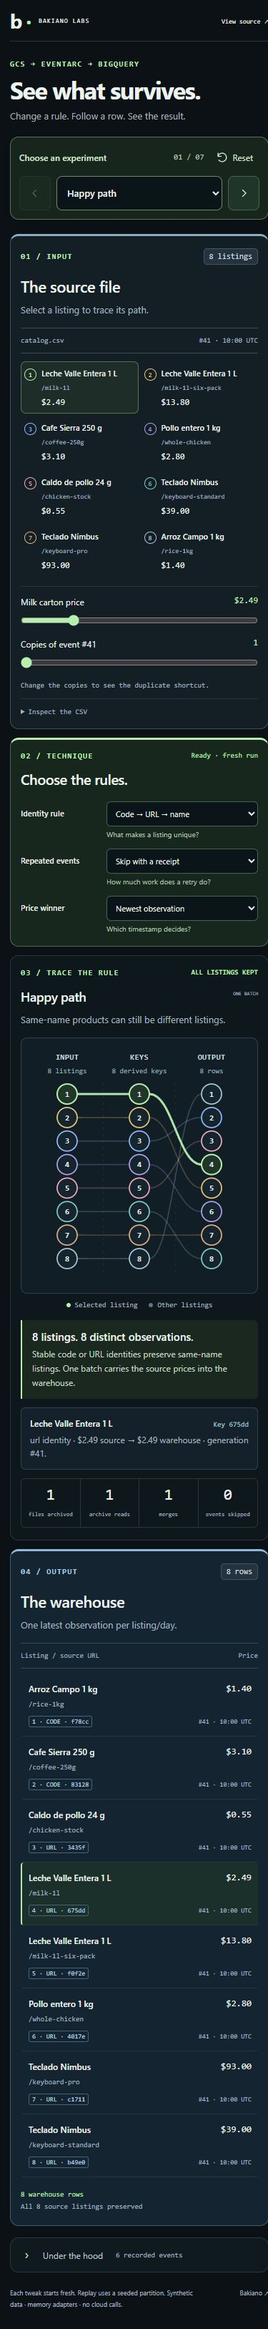
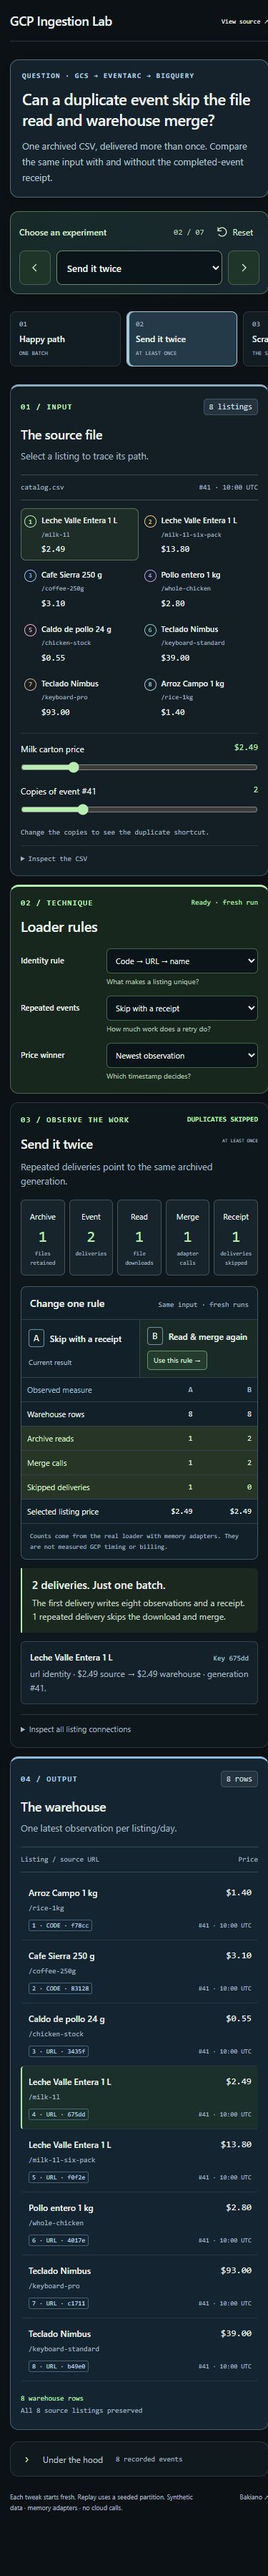
feat(lab): make ingestion failures and rule changes observable (#4)
* feat(lab): compare ingestion rules through observed work

* docs: explain ingestion comparisons and refresh previews

Changed region(s): [[0.0293, 0.0, 1.0, 0.9929], [0.9973, 0.3103, 1.0, 0.3413]]

diff --git a/demo/app.js b/demo/app.js
@@ -1,7 +1,7 @@
 const $ = selector => document.querySelector(selector);
 const escape = text => String(text ?? '').replace(/[&<>"']/g, c => ({ '&': '&amp;', '<': '&lt;', '>': '&gt;', '"': '&quot;', "'": '&#39;' }[c]));
 const palette = ['#b8efb0', '#e8c87c', '#94b8ff', '#b3a0ef', '#efabbf', '#80ccc7', '#deb188', '#a6c9db'];
-let scenarios = [], current = 'healthy', step = 'start', selected = 0, value, sequence = 0, controller, timer;
+let scenarios = [], current = 'duplicate', step = 'start', selected = 0, value, comparisonValue, sequence = 0, controller, timer;
 const money = amount => '$' + Number(amount).toFixed(2);
 const path = url => url?.replace('https://shop.example.test/', '/') ?? 'No URL';
 const basis = row => row.product_code ? 'CODE' : row.url ? 'URL' : 'NAME';
@@ -9,6 +9,43 @@ const blocked = data => ['invalid', 'missing_publication', 'rejected_event'].inc
 const nodeY = (index, count) => count === 1 ? 185 : 72 + index * 230 / (count - 1);
 const curve = (x1, y1, x2, y2) => 'M' + x1 + ' ' + y1 + ' C' + (x1 + (x2 - x1) * .45) + ' ' + y1 + ',' + (x2 - (x2 - x1) * .45) + ' ' + y2 + ',' + x2 + ' ' + y2;
 const safeId = id => id.slice(0, 5);
+const questions = {
+  healthy: ['What makes two same-name listings distinct?', 'Eight listings include two milk URLs and two keyboard URLs with identical titles. Change only the identity rule to see which survive.'],
+  duplicate: ['Can a duplicate event skip the file read and warehouse merge?', 'One archived CSV, delivered more than once. Compare the same input with and without the completed-event receipt.'],
+  denied: ['What happens when scraping succeeds but the upload fails?', 'Eight collected listings never become a published object. Loader settings cannot create the missing event.'],
+  schema: ['Can a CSV redefine the warehouse identity?', 'The source replaces its name column with product_id. The fixed schema rejects the file before the warehouse merge.'],
+  late: ['Which price wins when an older event arrives last?', 'Generation #42 contains the newer observation. Generation #41 is delivered after it. Compare observation time with delivery order.'],
+  receipt: ['What if the warehouse commits but the success receipt fails?', 'The first delivery commits rows, then fails to record completion. A retry must preserve the rows without duplicating them.'],
+  identity: ['Can changing the identity rule be fixed by a normal replay?', 'Name-only keys lose two listings. Replay with stable keys leaves the old keys behind. Inspect the explicit partition repair.'],
+};
+function oppositeRule() {
+  if (step !== 'start' || ['denied', 'schema'].includes(current)) return null;
+  const key = ['healthy', 'identity'].includes(current) ? 'identity' : current === 'late' ? 'latest' : 'receipts';
+  const other = key === 'identity' ? ($('#identity').value === 'stable' ? 'name' : 'stable') : $('#' + key).value !== 'true';
+  const names = { identity: { stable: 'Code → URL → name', name: 'Name only' }, receipts: { true: 'Skip with a receipt', false: 'Read & merge again' }, latest: { true: 'Newest observation', false: 'Last arrival' } };
+  return { key, other, title: names[key][String(other)], currentTitle: names[key][$('#' + key).value] };
+}
+function renderWork(data) {
+  const stages = [
+    ['Archive', data.metrics.archivedFiles, 'files retained'],
+    ['Event', data.metrics.deliveries, 'deliveries'],
+    ['Read', data.metrics.archiveReads, 'file downloads'],
+    ['Merge', data.metrics.mergeJobs, 'adapter calls'],
+    ['Receipt', data.metrics.skipped, 'deliveries skipped'],
+  ];
+  $('#operation-path').innerHTML = stages.map(([name, count, note]) => '<div class="' + (count ? 'performed' : 'idle') + '"><span>' + name + '</span><strong>' + count + '</strong><small>' + note + '</small></div>').join('');
+  const rule = oppositeRule();
+  if (!rule || !comparisonValue) {
+    $('#rule-comparison').innerHTML = '<p class="caption">' + (step !== 'start' ? 'This is an identity migration, not a single rule toggle. The replay and repair act on an explicitly seeded vendor/day partition.' : 'The failure occurs before a warehouse merge. Changing identity, receipts or timestamp rules cannot repair the source publication or schema.') + '</p>';
+    return;
+  }
+  const counters = [['Warehouse rows', 'warehouseRows'], ['Archive reads', 'archiveReads'], ['Merge calls', 'mergeJobs'], ['Skipped deliveries', 'skipped']];
+  const selectedPrice = result => {
+    const input = result.input.rows[selected], row = result.rows.find(item => item.url === input.url);
+    return row ? money(row.amount) : 'Not retained';
+  };
+  $('#rule-comparison').innerHTML = '<div class="comparison-heading"><h3>Change one rule</h3><span class="micro">Same input · fresh runs</span></div><div class="comparison-titles"><div><span class="method-letter">A</span><strong>' + escape(rule.currentTitle) + '</strong><small>Current result</small></div><div><span class="method-letter">B</span><strong>' + escape(rule.title) + '</strong><button id="use-opposite" type="button">Use this rule →</button></div></div><table class="comparison-table"><thead><tr><th>Observed measure</th><th>A</th><th>B</th></tr></thead><tbody>' + counters.map(([label, key]) => '<tr class="' + (data.metrics[key] !== comparisonValue.metrics[key] ? 'difference' : '') + '"><th scope="row">' + label + '</th><td>' + data.metrics[key] + '</td><td>' + comparisonValue.metrics[key] + '</td></tr>').join('') + '<tr class="' + (selectedPrice(data) !== selectedPrice(comparisonValue) ? 'difference' : '') + '"><th scope="row">Selected listing price</th><td>' + selectedPrice(data) + '</td><td>' + selectedPrice(comparisonValue) + '</td></tr></tbody></table><p class="micro comparison-note">Counts come from the real loader with memory adapters. They are not measured GCP timing or billing.</p>';
+}
 
 function controls(options) {
   $('#identity').value = options.identity;
@@ -53,7 +90,7 @@ function outcome(data) {
   if (current === 'late') return { title: 'Late arrival. Newer price preserved.', text: 'Generation #42 was observed at 10:05. The older 10:00 event cannot roll its $2.19 price back, even though it arrived last.', warning: false, status: 'LATEST PRESERVED' };
   if (!o.receipts && m.deliveries > 1) return { title: 'Same 8 rows. More repeated work.', text: m.deliveries + ' deliveries cause ' + m.archiveReads + ' reads and ' + m.mergeJobs + ' merges. Stable identities still prevent duplicate warehouse rows.', warning: true, status: 'REPEATED WORK' };
   if (current === 'receipt') return { title: 'A retry without a duplicate row.', text: 'The warehouse commits before the receipt write fails. The retry re-reads the file, but the second merge has nothing new to add.', warning: false, status: 'RETRY RECOVERED' };
-  if (m.skipped) return { title: m.deliveries + ' deliveries. Just one batch.', text: 'The first delivery writes eight observations and a receipt. The other ' + m.skipped + ' deliveries skip the download and merge.', warning: false, status: 'DUPLICATES SKIPPED' };
+  if (m.skipped) return { title: m.deliveries + ' deliveries. Just one batch.', text: 'The first delivery writes eight observations and a receipt. ' + m.skipped + ' repeated ' + (m.skipped === 1 ? 'delivery skips' : 'deliveries skip') + ' the download and merge.', warning: false, status: 'DUPLICATES SKIPPED' };
   return { title: '8 listings. 8 distinct observations.', text: 'Stable code or URL identities preserve same-name listings. One batch carries the source prices into the warehouse.', warning: false, status: 'ALL LISTINGS KEPT' };
 }
 
@@ -114,11 +151,14 @@ function renderSelection(data) {
   else detail = 'There is no corresponding warehouse observation.';
   $('#selection-detail').innerHTML = '<div class="selection-heading"><strong>' + escape(source.name) + '</strong><span class="detail-key">' + (blocked(data) ? 'Not merged' : 'Key ' + safeId(source.derived_id)) + '</span></div><p>' + escape(detail) + '</p>';
   renderGraph(data);
+  renderWork(data);
 }
 
 function render(data) {
   value = data;
   controls(data.options);
+  $('#question').textContent = questions[current][0];
+  $('#question-context').textContent = questions[current][1];
   $('#scenario-title').textContent = data.scenario.name;
   $('#scenario-tag').textContent = data.scenario.tag;
   $('#scenario-description').textContent = data.scenario.description;
@@ -135,7 +175,6 @@ function render(data) {
   $('#empty').hidden = data.rows.length > 0;
   $('#empty p').textContent = current === 'denied' ? 'No upload means no event. Nothing reached this table.' : 'The file was rejected. Existing warehouse data would remain untouched.';
   $('#output-summary').innerHTML = '<strong>' + data.rows.length + ' warehouse rows</strong><br>' + (step === 'replay' ? '6 earlier keys + 8 stable keys' : blocked(data) ? '0 listings published' : data.rows.length === data.input.rows.length ? 'All 8 source listings preserved' : '2 source listings lost to collisions');
-  for (const [id,count] of [['files',data.metrics.archivedFiles],['reads',data.metrics.archiveReads],['jobs',data.metrics.mergeJobs],['skips',data.metrics.skipped]]) $('#metric-'+id).textContent = count;
   $('#identity-actions').hidden = current !== 'identity' || (step === 'start' && data.options.identity !== 'name');
   $('#replay').hidden = step !== 'start';
   $('#repair').hidden = step !== 'replay';
@@ -155,10 +194,15 @@ async function run(nextStep = 'start') {
   $('#experiment').setAttribute('aria-busy','true');
   $('#run-state').textContent = 'Updating…';
   try {
-    const response = await fetch('/api/run',{method:'POST',headers:{'Content-Type':'application/json'},body:JSON.stringify({id:current,step,options:options()}),signal:controller.signal});
-    if (!response.ok) throw new Error('This experiment could not run.');
-    const data = await response.json();
+    const send = async input => {
+      const response = await fetch('/api/run',{method:'POST',headers:{'Content-Type':'application/json'},body:JSON.stringify(input),signal:controller.signal});
+      if (!response.ok) throw new Error('This experiment could not run.');
+      return response.json();
+    };
+    const rule = oppositeRule(), input = { id:current, step, options:options() };
+    const [data, alternate] = await Promise.all([send(input), rule ? send({ ...input, options: { ...input.options, [rule.key]: rule.other } }) : null]);
     if (token !== sequence) return;
+    comparisonValue = alternate;
     render(data);
     $('#run-state').textContent = 'Ready · fresh run';
   } catch(error) {
@@ -168,8 +212,10 @@ async function run(nextStep = 'start') {
 function selectSource(event) {
   const target = event.target.closest('[data-source]');
   if (!target || !value) return;
+  const restoreFocus = document.activeElement === target;
   selected=Number(target.dataset.source);
   renderSelection(value);
+  if (restoreFocus) $('#input-rows [data-source="'+selected+'"]').focus({preventScroll:true});
 }
 function schedule() {
   updateKnobs(); clearTimeout(timer);
@@ -185,13 +231,24 @@ function updatePreset() {
   $('#preset-position').textContent=String(index+1).padStart(2,'0')+' / '+String(scenarios.length).padStart(2,'0');
   $('#previous-experiment').disabled=index<=0;
   $('#next-experiment').disabled=index>=scenarios.length-1;
+  $('#experiment-list').innerHTML = scenarios.map((scenario, i) => '<button type="button" data-experiment="' + scenario.id + '" aria-pressed="' + (scenario.id === current) + '"><span>' + String(i + 1).padStart(2, '0') + '</span><strong>' + escape(scenario.name) + '</strong><small>' + escape(scenario.tag) + '</small><b aria-hidden="true">↗</b></button>').join('');
 }
 function choosePreset(id) {
   const scenario=scenarios.find(item=>item.id===id);
   if(!scenario) return;
   current=id; step='start'; selected=0;
   updatePreset(); controls(scenario.defaults); run();
+  if (!matchMedia('(prefers-reduced-motion: reduce)').matches) $('.question-panel').animate([{ opacity: .6, transform: 'translateY(4px)' }, { opacity: 1, transform: 'translateY(0)' }], {duration:220,easing:'ease-out'});
 }
+$('#experiment-list').addEventListener('click',event=>{
+  const button=event.target.closest('[data-experiment]');
+  if(button) { choosePreset(button.dataset.experiment); $('#experiment-list [aria-pressed=true]').focus({preventScroll:true}); }
+});
+$('#rule-comparison').addEventListener('click',event=>{
+  if (!event.target.closest('#use-opposite')) return;
+  const rule=oppositeRule(); if(!rule) return;
+  $('#'+rule.key).value=String(rule.other); updateKnobs(); run('start');
+});
 $('#input-rows').addEventListener('click',selectSource);
 $('#lineage').addEventListener('click',selectSource);
 $('#lineage').addEventListener('keydown',event=>{ if(['Enter',' '].includes(event.key)) { event.preventDefault(); selectSource(event); $('#input-rows [data-source="'+selected+'"]').focus({preventScroll:true}); } });
@@ -216,6 +273,6 @@ try {
   scenarios=await response.json();
   $('#preset').innerHTML=scenarios.map(s=>'<option value="'+escape(s.id)+'">'+escape(s.name)+'</option>').join('');
   $('#preset').disabled=false; $('#reset').disabled=false; updatePreset();
-  controls(scenarios[0].defaults);
+  controls(scenarios.find(scenario=>scenario.id===current).defaults);
   await run();
 } catch(error) { $('#run-state').textContent=error.message; }

diff --git a/demo/style.css b/demo/style.css
@@ -22,20 +22,20 @@ button:disabled, select:disabled, input:disabled { cursor: default; opacity: .55
 [hidden] { display: none !important; }
 .shell { --lab-columns: minmax(245px,.85fr) minmax(440px,1.65fr) minmax(260px,1fr); --lab-gap: 16px; width: 100%; padding: 0 28px; }
 .top { height: 66px; border-bottom: 1px solid var(--line); display: flex; justify-content: space-between; align-items: center; gap: 18px; }
-.brand { display: flex; align-items: center; gap: 7px; font: bold 32px var(--sans); letter-spacing: -2px; }
+.brand { display: flex; align-items: center; gap: 7px; font: 600 20px var(--sans); letter-spacing: -.4px; }
 .brand > span:first-child { color: var(--mint); }
 .wordmark { font: 10px var(--mono); letter-spacing: 2px; margin-left: 12px; }
 .top-right { display: flex; gap: 26px; font: 10px var(--mono); }
 .local { color: var(--muted); display: flex; gap: 8px; align-items: center; }
 .local i { width: 5px; height: 5px; border-radius: 50%; background: var(--mint); }
-.masthead { display: grid; grid-template-columns: var(--lab-columns); align-items: center; column-gap: var(--lab-gap); padding: 28px 0; }
+.masthead { display: grid; grid-template-columns: minmax(0,1fr) minmax(290px,400px); align-items: center; gap: 16px; padding: 18px 0 12px; }
 .eyebrow { font: 600 11px var(--mono); color: var(--mint); letter-spacing: 1.2px; margin: 0; }
 .masthead .eyebrow { margin-bottom: 10px; }
-h1 { font-size: clamp(32px, 2.9vw, 46px); font-weight: 650; line-height: 1.12; letter-spacing: -1.5px; margin: 0 0 8px; }
-h2 { font-size: 22px; font-weight: 600; letter-spacing: -.4px; margin: 0 0 6px; }
+h1 { font-size: clamp(21px, 1.8vw, 27px); font-weight: 600; line-height: 1.3; letter-spacing: -.5px; margin: 0 0 12px; }
+h2 { font-size: 18px; font-weight: 600; letter-spacing: -.3px; margin: 0 0 6px; }
 h3 { margin: 0; font-size: 14px; font-weight: 550; }
-.lede { color: #a4b5bc; margin: 0; font-size: 14px; }
-.preset-control { grid-column: 2; justify-self: center; width: 100%; max-width: 640px; min-width: 0; padding: 14px 16px 16px; border: 1px solid #56725b; border-radius: 12px; background: #17251d; box-shadow: 0 7px 28px #0002; }
+.lede { color: #b2c4cf; margin: 0; font-size: 12px; line-height: 1.7; }
+.preset-control { grid-column: 2; justify-self: center; width: 100%; max-width: 640px; min-width: 0; padding: 14px 16px 16px; border: 1px solid #56725b; border-radius: 12px; background: linear-gradient(120deg,#172b26,#19262f,#202b21); background-size: 250% 250%; animation: control-drift 16s ease-in-out infinite; box-shadow: 0 7px 28px #0002; }
 .preset-heading { display: flex; justify-content: space-between; align-items: center; gap: 12px; margin-bottom: 10px; }
 .preset-heading > label { font: 600 13px var(--sans); color: #d3e9d1; }
 .preset-actions { display: flex; align-items: center; gap: 12px; }
@@ -135,11 +135,6 @@ input[type=range] { width: 100%; accent-color: var(--mint); margin: 0 0 14px; he
 .selection-detail p { margin: 4px 0 0; }
 .detail-key { color: #a8c6d9; font: 10px var(--mono); white-space: nowrap; }
 .selection-detail strong { color: var(--text); font-weight: 500; }
-.metrics { display: grid; grid-template-columns: repeat(4,1fr); border: 1px solid var(--line); border-radius: 6px; overflow: hidden; }
-.metrics > div { padding: 9px 10px; border-right: 1px solid var(--line); text-align: center; }
-.metrics > div:last-child { border: 0; }
-.metrics strong { display: block; font: 22px var(--mono); }
-.metrics span { font: 10px var(--mono); color: var(--muted); white-space: nowrap; }
 .identity-actions { display: flex; flex-wrap: wrap; align-items: center; gap: 10px; margin-top: 14px; }
 .accent { border: 0; background: var(--mint); color: #142219; padding: 10px 12px; border-radius: 6px; font: 10px var(--mono); }
 .output-meta { margin-top: 0; }
@@ -171,6 +166,46 @@ input[type=range] { width: 100%; accent-color: var(--mint); margin: 0 0 14px; he
 #journal b { font: 9px var(--mono); color: var(--mint); margin-right: 9px; }
 #journal .fail b { color: var(--orange); }
 footer { margin: 21px 0 27px; display: flex; justify-content: space-between; gap: 20px; font-size: 10px; color: var(--muted); }
+.question-panel { min-width: 0; padding: 20px 22px; border: 1px solid #526878; border-radius: 12px; background: #15212b; box-shadow: 0 5px 20px #0003; }
+.question-panel .eyebrow { color: #b8d4e5; font-size: 10px; margin-bottom: 12px; }
+.experiment-list { display: grid; grid-template-columns: repeat(7,minmax(0,1fr)); gap: 8px; margin: 0 0 18px; }
+.experiment-list button { position: relative; min-width: 0; text-align: left; padding: 11px 12px; border: 1px solid var(--line); border-radius: 8px; color: var(--text); background: #121c23; transition: transform 160ms,border-color 160ms,background 160ms; }
+.experiment-list button:hover { transform: translateY(-3px); border-color: #789eb1; background: #192832; }
+.experiment-list button[aria-pressed=true] { border-color: #a6c9db; background: #243a48; box-shadow: inset 3px 0 #a6c9db; }
+.experiment-list span { display: block; color: var(--muted); font: 10px var(--mono); margin-bottom: 6px; }
+.experiment-list strong { display: block; font: 550 12px/1.4 var(--sans); padding-right: 10px; }
+.experiment-list small { display: block; color: var(--muted); font: 8px/1.5 var(--mono); margin-top: 6px; }
+.experiment-list b { position: absolute; top: 10px; right: 10px; font-weight: 400; color: #abcbdc; opacity: 0; transform: translate(-3px,3px); transition: 160ms; }
+.experiment-list button:hover b,.experiment-list button:focus-visible b { opacity: 1; transform: none; }
+.operation-path { display: grid; grid-template-columns: repeat(5,minmax(0,1fr)); gap: 6px; margin: 15px 0; }
+.operation-path > div { padding: 10px 6px; border: 1px solid #40535b; border-radius: 6px; background: #17242b; text-align: center; }
+.operation-path .idle { background: #121a1f; border-style: dashed; }
+.operation-path span { font-size: 11px; }
+.operation-path strong { display: block; font: 22px var(--mono); margin: 5px 0; color: #b8efb0; }
+.operation-path .idle strong { color: var(--muted); }
+.operation-path small { display: block; font: 8px/1.6 var(--mono); color: var(--muted); }
+.rule-comparison { border: 1px solid #42596a; border-radius: 8px; overflow: hidden; margin: 12px 0; background: #12202a; }
+.rule-comparison > .caption { padding: 14px; margin: 0; }
+.comparison-heading { padding: 12px; display: flex; justify-content: space-between; gap: 8px; align-items: baseline; }
+.comparison-titles { display: grid; grid-template-columns: 1fr 1fr; border-top: 1px solid #2f4351; }
+.comparison-titles > div { padding: 12px; display: flex; flex-wrap: wrap; align-items: center; gap: 8px; }
+.comparison-titles > div:last-child { border-left: 1px solid #2f4351; background: #1a2b27; }
+.method-letter { border: 1px solid #7093a4; border-radius: 4px; font: 14px var(--mono); padding: 3px 6px; }
+.comparison-titles strong { font-size: 12px; font-weight: 550; }
+.comparison-titles small { flex-basis: 100%; color: var(--muted); font-size: 10px; }
+#use-opposite { font-size: 10px; border: 1px solid #6a9270; color: #d5efd5; background: #243c2e; border-radius: 5px; padding: 5px 8px; }
+.comparison-table { width: 100%; border-collapse: collapse; table-layout: fixed; font: 11px var(--mono); }
+.comparison-table th,.comparison-table td { padding: 9px 12px; border-top: 1px solid #2f4351; text-align: right; overflow-wrap: anywhere; }
+.comparison-table th:first-child { width: 50%; text-align: left; font: 11px var(--sans); font-weight: 400; }
+.comparison-table thead { color: #9fbdcc; }
+.comparison-table tr.difference { background: #263526; color: #d5ebc5; }
+.comparison-note { padding: 10px 12px; border-top: 1px solid #2f4351; font-size: 9px; }
+.lineage-detail { margin-top: 14px; border-top: 1px solid var(--line); padding-top: 12px; font-size: 11px; color: var(--muted); }
+button:focus-visible,a:focus-visible,select:focus-visible,input:focus-visible,summary:focus-visible { outline: 2px solid #a6c9db; outline-offset: 3px; }
+@keyframes control-drift { 0%,100% { background-position: 0% 50%; } 50% { background-position: 100% 50%; } }
+@media (max-width: 1080px) { .experiment-list { display: flex; overflow-x: auto; padding: 4px 0 7px; } .experiment-list button { min-width: 170px; } }
+@media (max-width: 720px) { .question-panel { padding: 16px; } .experiment-list button { min-width: 155px; } .comparison-heading { flex-wrap: wrap; } .comparison-titles > div { padding: 10px; } .comparison-table th,.comparison-table td { padding: 9px 8px; } }
+@media (prefers-reduced-motion: reduce) { *,*::before,*::after { animation: none !important; transition: none !important; } .experiment-list button:hover { transform: none; } }
 @media (min-width: 1800px) {
   .shell { --lab-columns: minmax(300px,.9fr) minmax(560px,1.55fr) minmax(330px,1fr); --lab-gap: 20px; padding: 0 44px; }
   .source-row { padding: 11px 8px; }
@@ -186,12 +221,12 @@ footer { margin: 21px 0 27px; display: flex; justify-content: space-between; gap
 @media (max-width: 720px) {
   .shell { padding: 0 14px; }
   .top { height: 58px; }
-  .brand { font-size: 28px; }
+  .brand { font-size: 18px; }
   .wordmark { font-size: 9px; margin-left: 5px; letter-spacing: 1px; }
   .local { display: none; }
   .top-right { font-size: 9px; }
   .masthead { display: block; padding: 25px 0 20px; }
-  h1 { font-size: 34px; }
+  h1 { font-size: 22px; }
   .lede { font-size: 13px; }
   .preset-control { margin-top: 19px; padding: 12px; }
   .preset-heading { gap: 8px; }
@@ -216,8 +251,6 @@ footer { margin: 21px 0 27px; display: flex; justify-content: space-between; gap
   .graph-heading { align-items: flex-start; }
   .graph-heading h2 { font-size: 18px; }
   .graph-heading .mini { font-size: 7px; padding-top: 5px; }
-  .metrics > div { padding: 9px 5px; }
-  .metrics span { font-size: 8px; }
   .output-list { display: block; }
   .output-row h3 { font-size: 12px; }
   #journal { display: block; }

diff --git a/demo/index.html b/demo/index.html
@@ -10,11 +10,11 @@
 <body>
 <div class="shell">
   <header class="top">
-    <a class="brand" href="/">b<span>·</span><span class="wordmark">BAKIANO LABS</span></a>
+    <a class="brand" href="/">GCP Ingestion Lab</a>
     <div class="top-right"><span class="local"><i></i> LOCAL EXPERIMENT</span><a href="https://github.com/alejandrofrank/gcp-ingestion-lab" target="_blank" rel="noreferrer">View source ↗</a></div>
   </header>
   <section class="masthead">
-    <div><p class="eyebrow">GCS → EVENTARC → BIGQUERY</p><h1>See what survives.</h1><p class="lede">Change a rule. Follow a row. See the result.</p></div>
+    <div class="question-panel"><p class="eyebrow">QUESTION · GCS → EVENTARC → BIGQUERY</p><h1 id="question">Can a duplicate event skip the file read and warehouse merge?</h1><p id="question-context" class="lede"></p></div>
     <div class="preset-control">
       <div class="preset-heading">
         <label for="preset">Choose an experiment</label>
@@ -32,6 +32,7 @@
       </div>
     </div>
   </section>
+  <nav id="experiment-list" class="experiment-list" aria-label="Experiments"></nav>
   <main id="experiment" class="experiment" aria-busy="false">
     <section class="input-panel panel">
       <div class="section-heading"><span class="eyebrow">01 / INPUT</span><span id="input-count" class="count">8 listings</span></div>
@@ -52,7 +53,7 @@
     </section>
     <section class="technique-panel panel">
       <div class="section-heading"><span class="eyebrow">02 / TECHNIQUE</span><span id="run-state" class="run-state" role="status">Ready</span></div>
-      <h2>Choose the rules.</h2>
+      <h2>Loader rules</h2>
       <div class="techniques">
         <label for="identity"><span>Identity rule</span><select id="identity"><option value="stable">Code → URL → name</option><option value="name">Name only · lossy</option></select><small>What makes a listing unique?</small></label>
         <label for="receipts"><span>Repeated events</span><select id="receipts"><option value="true">Skip with a receipt</option><option value="false">Read & merge again</option></select><small>How much work does a retry do?</small></label>
@@ -60,24 +61,19 @@
       </div>
     </section>
     <section class="explanation-panel panel">
-      <div class="section-heading"><span class="eyebrow">03 / TRACE THE RULE</span><span id="result-status" class="status">READY</span></div>
+      <div class="section-heading"><span class="eyebrow">03 / OBSERVE THE WORK</span><span id="result-status" class="status">READY</span></div>
       <div class="graph-heading"><h2 id="scenario-title">Happy path</h2><span id="scenario-tag" class="mini">ONE BATCH</span></div>
       <p id="scenario-description" class="caption"></p>
-      <div class="graph-wrap"><svg id="lineage" viewBox="0 0 600 390" role="group" aria-label="Source rows connect through derived identities to warehouse rows"></svg></div>
-      <div class="graph-legend"><span><i class="legend-selected"></i>Selected listing</span><span><i class="legend-other"></i>Other listings</span><span id="legacy-legend" hidden><i class="legend-legacy"></i>Earlier identity</span></div>
+      <div id="operation-path" class="operation-path" aria-label="Actual pipeline operations"></div>
+      <section id="rule-comparison" class="rule-comparison" aria-label="Compare one rule change"></section>
       <div id="explanation" class="explanation"><h3></h3><p></p></div>
       <div id="selection-detail" class="selection-detail"></div>
-      <div class="metrics">
-        <div><strong id="metric-files">—</strong><span>files archived</span></div>
-        <div><strong id="metric-reads">—</strong><span>archive reads</span></div>
-        <div><strong id="metric-jobs">—</strong><span>merges</span></div>
-        <div><strong id="metric-skips">—</strong><span>events skipped</span></div>
-      </div>
       <div id="identity-actions" class="identity-actions" hidden>
         <button id="replay" class="accent">Replay with stable IDs →</button>
         <button id="repair" class="accent" hidden>Back up & repair →</button>
         <span id="repair-note" class="micro"></span>
       </div>
+      <details class="lineage-detail"><summary>Inspect all listing connections</summary><div class="graph-wrap"><svg id="lineage" viewBox="0 0 600 390" role="group" aria-label="Source rows connect through derived identities to warehouse rows"></svg></div><div class="graph-legend"><span><i class="legend-selected"></i>Selected listing</span><span><i class="legend-other"></i>Other listings</span><span id="legacy-legend" hidden><i class="legend-legacy"></i>Earlier identity</span></div></details>
     </section>
     <section class="output-panel panel">
       <div class="section-heading"><span class="eyebrow">04 / OUTPUT</span><span id="output-count" class="count">8 rows</span></div>

diff --git a/scripts/serve.js b/scripts/serve.js
@@ -5,7 +5,7 @@ import { resolve, extname } from 'node:path';
 import { SCENARIOS, runScenario } from '../examples/scenarios.js';
 const root = fileURLToPath(new URL('../', import.meta.url));
 const port = Number(process.env.PORT ?? 4313), hosts = new Set([`127.0.0.1:${port}`, `localhost:${port}`]);
-const types = { '.html': 'text/html', '.css': 'text/css', '.js': 'text/javascript', '.svg': 'image/svg+xml', '.png': 'image/png' };
+const types = { '.html': 'text/html', '.css': 'text/css', '.js': 'text/javascript', '.svg': 'image/svg+xml', '.png': 'image/png', '.jpg': 'image/jpeg' };
 const respond = (res, status, data) => { res.writeHead(status, { 'Content-Type': 'application/json', 'Cache-Control': 'no-store' }); res.end(JSON.stringify(data)); };
 createServer(async (req, res) => {
   res.setHeader('X-Content-Type-Options', 'nosniff');
@@ -25,7 +25,7 @@ createServer(async (req, res) => {
     }
     if (req.method !== 'GET' && req.method !== 'HEAD') return respond(res, 405, { error: 'Method not allowed' });
     const relative = path === '/' ? 'demo/index.html' : path.slice(1);
-    if (!/^(demo\/(index\.html|app\.js|style\.css)|docs\/images\/[a-z-]+\.(svg|png))$/.test(relative)) return respond(res, 404, { error: 'Not found' });
+    if (!/^(demo\/(index\.html|app\.js|style\.css)|docs\/images\/[a-z-]+\.(svg|png|jpg))$/.test(relative)) return respond(res, 404, { error: 'Not found' });
     const bytes = await readFile(resolve(root, relative));
     res.writeHead(200, { 'Content-Type': types[extname(relative)], 'Cache-Control': 'no-store' }).end(req.method === 'HEAD' ? undefined : bytes);
   } catch { respond(res, 400, { error: 'Could not run this scenario.' }); }

diff --git a/README.md b/README.md
@@ -1,13 +1,11 @@
 # GCP Ingestion Lab
 
-**Tiny files. Big consequences.**
-
-A visual, runnable lab for the failure boundaries in **Cloud Storage → Eventarc → Cloud Run → BigQuery**. Break an upload, replay an event, change product identity, and see which rows actually survive.
+A runnable lab for the failure boundaries in **Cloud Storage → Eventarc → Cloud Run → BigQuery**. Compare one loader rule at a time, inspect the operations it performs, and verify the resulting rows.
 
 [![CI](https://github.com/alejandrofrank/gcp-ingestion-lab/actions/workflows/ci.yml/badge.svg)](https://github.com/alejandrofrank/gcp-ingestion-lab/actions/workflows/ci.yml)
 [![License: MIT](https://img.shields.io/badge/license-MIT-a7e59b.svg)](LICENSE)
 
-![Source listings on the left, technique controls and interactive row tracing in the center, warehouse output on the right](docs/images/demo-desktop.jpg)
+![A duplicate-event experiment with source listings, loader rules, actual operation counts and a paired receipt comparison](docs/images/demo-desktop.jpg)
 
 ## Run it in 15 seconds
 
@@ -23,7 +21,11 @@ Open **http://127.0.0.1:4313**.
 
 The browser calls the real loader core with **in-memory adapters and synthetic fixtures**. Each tweak starts fresh; identity replay seeds an earlier partition explicitly. Cloud timing, billing and IAM behavior are not emulated. The upload-denial scenario injects an error; it does not change any permissions.
 
-Read the experiment **left → center → right**. Select a source listing to highlight its path through the identity rule into the actual warehouse result. Change the milk price or number of event copies, then switch identity, receipt and timestamp rules to see what changes. Counts, prices and connections come from the loader result, not a canned animation. Raw CSV and the event journal stay behind expandable details.
+Start with **Send it twice**. The question describes the input; the center compares the current receipt rule with its opposite. Both runs return eight rows, but one downloads and merges the file twice. Click **Use this rule** to make the other result current.
+
+Read the workspace **left → center → right**: source listings, rules and measured adapter operations, then current warehouse output. Pick a listing to compare its retained price in A and B. Change the milk price or delivery count to rerun both sides with the same input. The identity cases compare name-only keys with stable keys; the late-arrival case compares observation time with arrival order. Publication and schema failures show their stopping boundary because toggling a downstream rule cannot repair them.
+
+CSV, the full connection graph and the event journal are expandable evidence. The workbench has keyboard focus states, responsive layouts and reduced-motion support. Counts and prices come from loader executions, not a canned animation. See [how the comparisons work](docs/workbench.md).
 
 The lossy name rule, repeated-read adapter and last-arrival price rule live in `examples/techniques.js` for comparison. The cloud receiver uses the safe defaults and does not accept browser experiment settings.
 

diff --git a/docs/workbench.md b/docs/workbench.md
@@ -1,0 +1,29 @@
+# Reading the workbench
+
+The header poses one concrete failure question. The source file is on the left, the configurable loader and its work are in the center, and the current warehouse result is on the right.
+
+The default duplicate experiment has two deliveries of one archived generation. A uses the selected receipt setting. B flips only that setting; identity, timestamp handling, price and delivery count stay the same. Both results come from independent fresh executions of the loader with memory adapters.
+
+| Experiment | Variable compared | Evidence to inspect |
+|---|---|---|
+| Happy path / two URLs | Stable keys versus name-only keys | Eight versus six rows; the selected source URL can disappear |
+| Duplicate / receipt failure | Check completed receipts versus repeat the work | Reads, merges and skipped deliveries; a failed receipt cannot skip the first retry |
+| Older event arrives last | Observation time versus last arrival | Selected carton price is $2.19 versus $2.49 with the default input |
+| Upload failure | No downstream alternative | No archive object, event, read or merge |
+| Invalid schema | No downstream alternative | File retained and read; no merge |
+
+**Use this rule** applies B's setting to the current run. The right-hand warehouse always displays A. Selecting a source listing updates the price row in both comparisons and highlights the corresponding current warehouse row.
+
+The operation strip counts retained archive generations, delivered events, archive downloads, merge-adapter calls and deliveries skipped after finding a receipt. These are per-result counts, not the combined work of rendering A and B. A real BigQuery staging load and script child jobs are separate cloud operations. The lab makes no claim about cloud runtime or billed cost.
+
+## Identity migration
+
+The replay and repair controls use an explicitly seeded name-based partition. Replay leaves six old keys beside eight stable keys. Repair snapshots those fourteen rows and replaces only the synthetic vendor/day partition with the eight archived listings. The ordinary one-rule comparison is hidden during these migration steps because they change stored state, not just an option.
+
+## Inspection and boundaries
+
+Expand the CSV to inspect raw bytes, the connection diagram to trace all keys, or the journal to inspect ordering. Source selection uses real URLs and derived identities. No prices or outcomes are invented for the interface.
+
+Each edit starts fresh. All listings are synthetic; local adapters are not a cloud emulator. The unsafe comparison rules cannot be supplied to the deployed cloud receiver.
+
+![Mobile duplicate-event comparison](images/demo-mobile.jpg)
